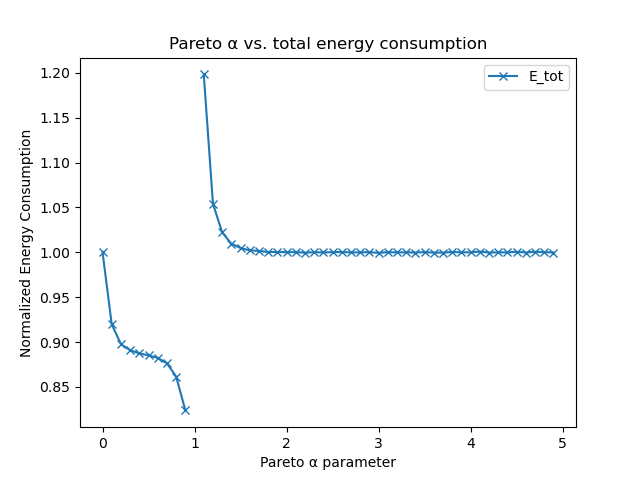
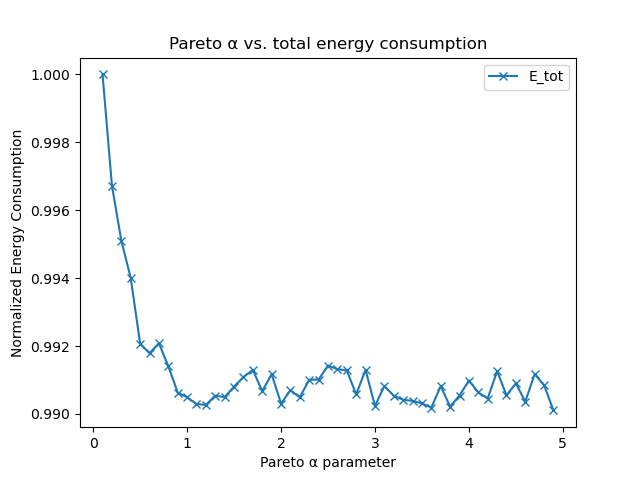
added new pareto plots

diff --git a/conservation.py b/conservation.py
@@ -116,8 +116,8 @@ def total_energy(opt):
 
 def pareto_P_hit(alpha, S_c, M):
     ''' Calculates the Pareto hit rate given the values '''
-    num = 1 - 1/((S_c * M) ** alpha)
-    denom = 1 - 1/((M) ** (1 - alpha))
+    num = 1 - (1/(S_c * M)) ** alpha
+    denom = 1 - (1/M) ** (alpha)
     return num/denom
 
 def main():
@@ -168,7 +168,7 @@ def main():
 def pareto_plot():
 
     # values of alpha to test on (range can be changed)
-    alpha_lst = np.arange(0, 5, 0.1)
+    alpha_lst = np.arange(0.1, 1, 0.1)
 
     # crossover point given the new model, 40% S_c, M=1000, m/r=0.01
     S = 32
@@ -177,7 +177,7 @@ def pareto_plot():
 
     opt = Opt(S)
     for alpha in alpha_lst:
-        P_hit = pareto_P_hit(alpha, opt.S, opt.M)
+        P_hit = pareto_P_hit(alpha, opt.S_c, opt.M)
         print(P_hit)
         opt.P_hit = P_hit
         E_tot = total_energy(opt)
@@ -188,6 +188,8 @@ def pareto_plot():
     E_tot_norm = [E_tot_lst[i] / initE for i in range(len(E_tot_lst))]
 
     plt.plot(alpha_lst, E_tot_norm, label = "E_tot", marker="x")
+    # plt.plot(alpha_lst, E_tot_lst, label = "E_tot", marker="x")
+
 
     plt.xlabel('Pareto α parameter')
     plt.ylabel('Normalized Energy Consumption')
